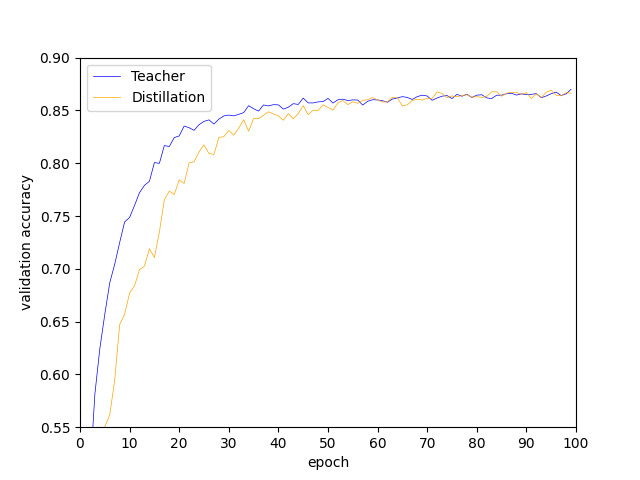
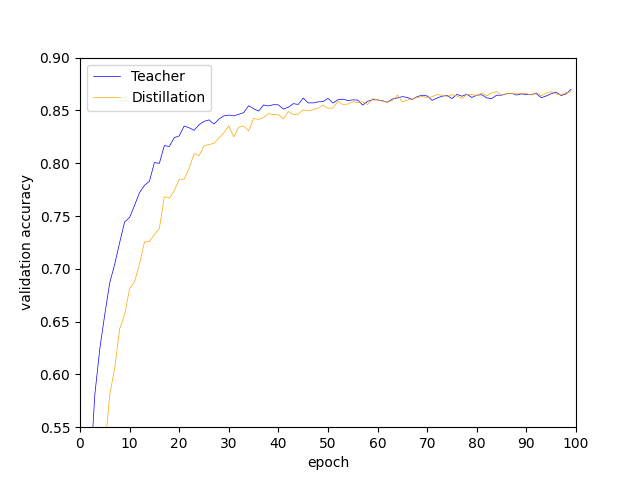
CAM-Distillation

diff --git a/result.py b/result.py
@@ -17,7 +17,7 @@ def main():
     elif epochs == 100:
         teacher_iter = 5
         student_iter = 0
-        st_iter      = 1
+        st_iter      = 3
         cam10_iter   = 0
     
     # setting path

diff --git a/train_kd.py b/train_kd.py
@@ -14,7 +14,7 @@ from src.kd_loss.st import SoftTargetLoss
 import pickle
 
 def main():
-    for i in range(3):
+    for i in range(1, 3):
         print(i)
         epochs = 100
         batch_size = 128
